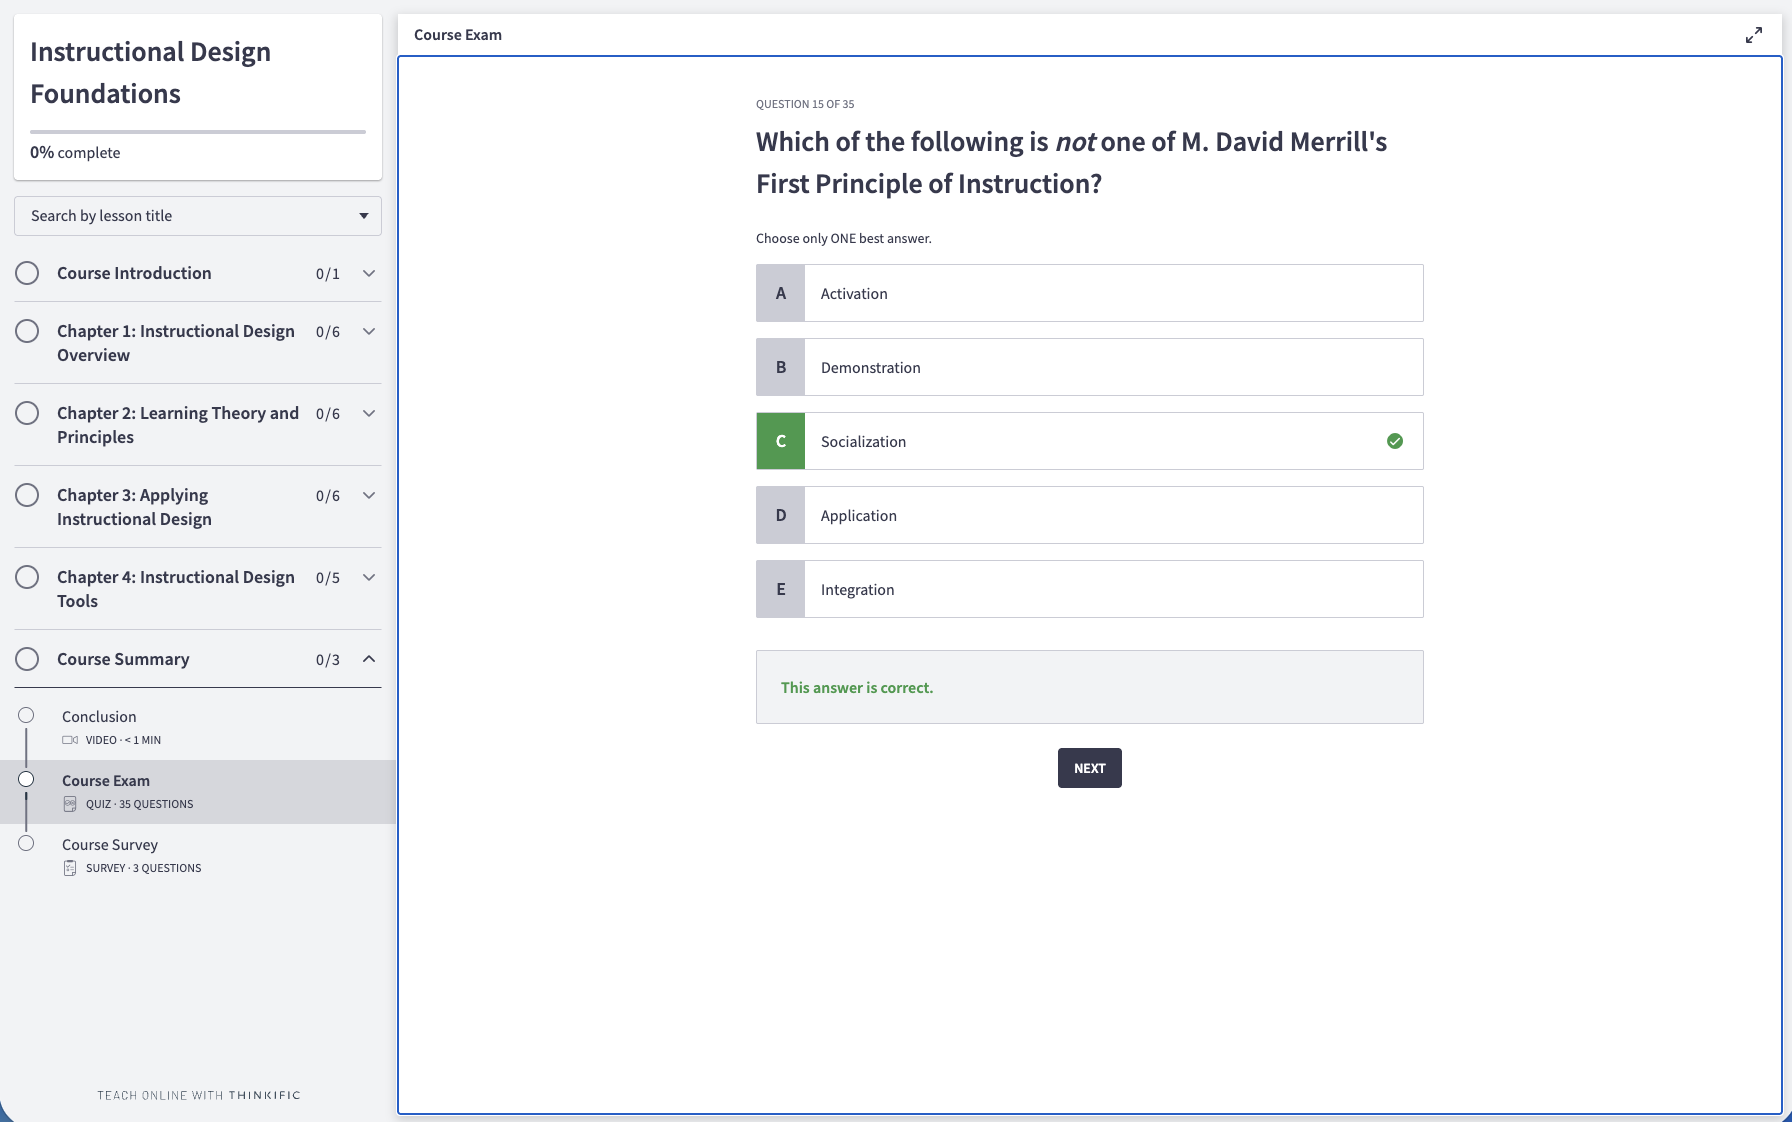
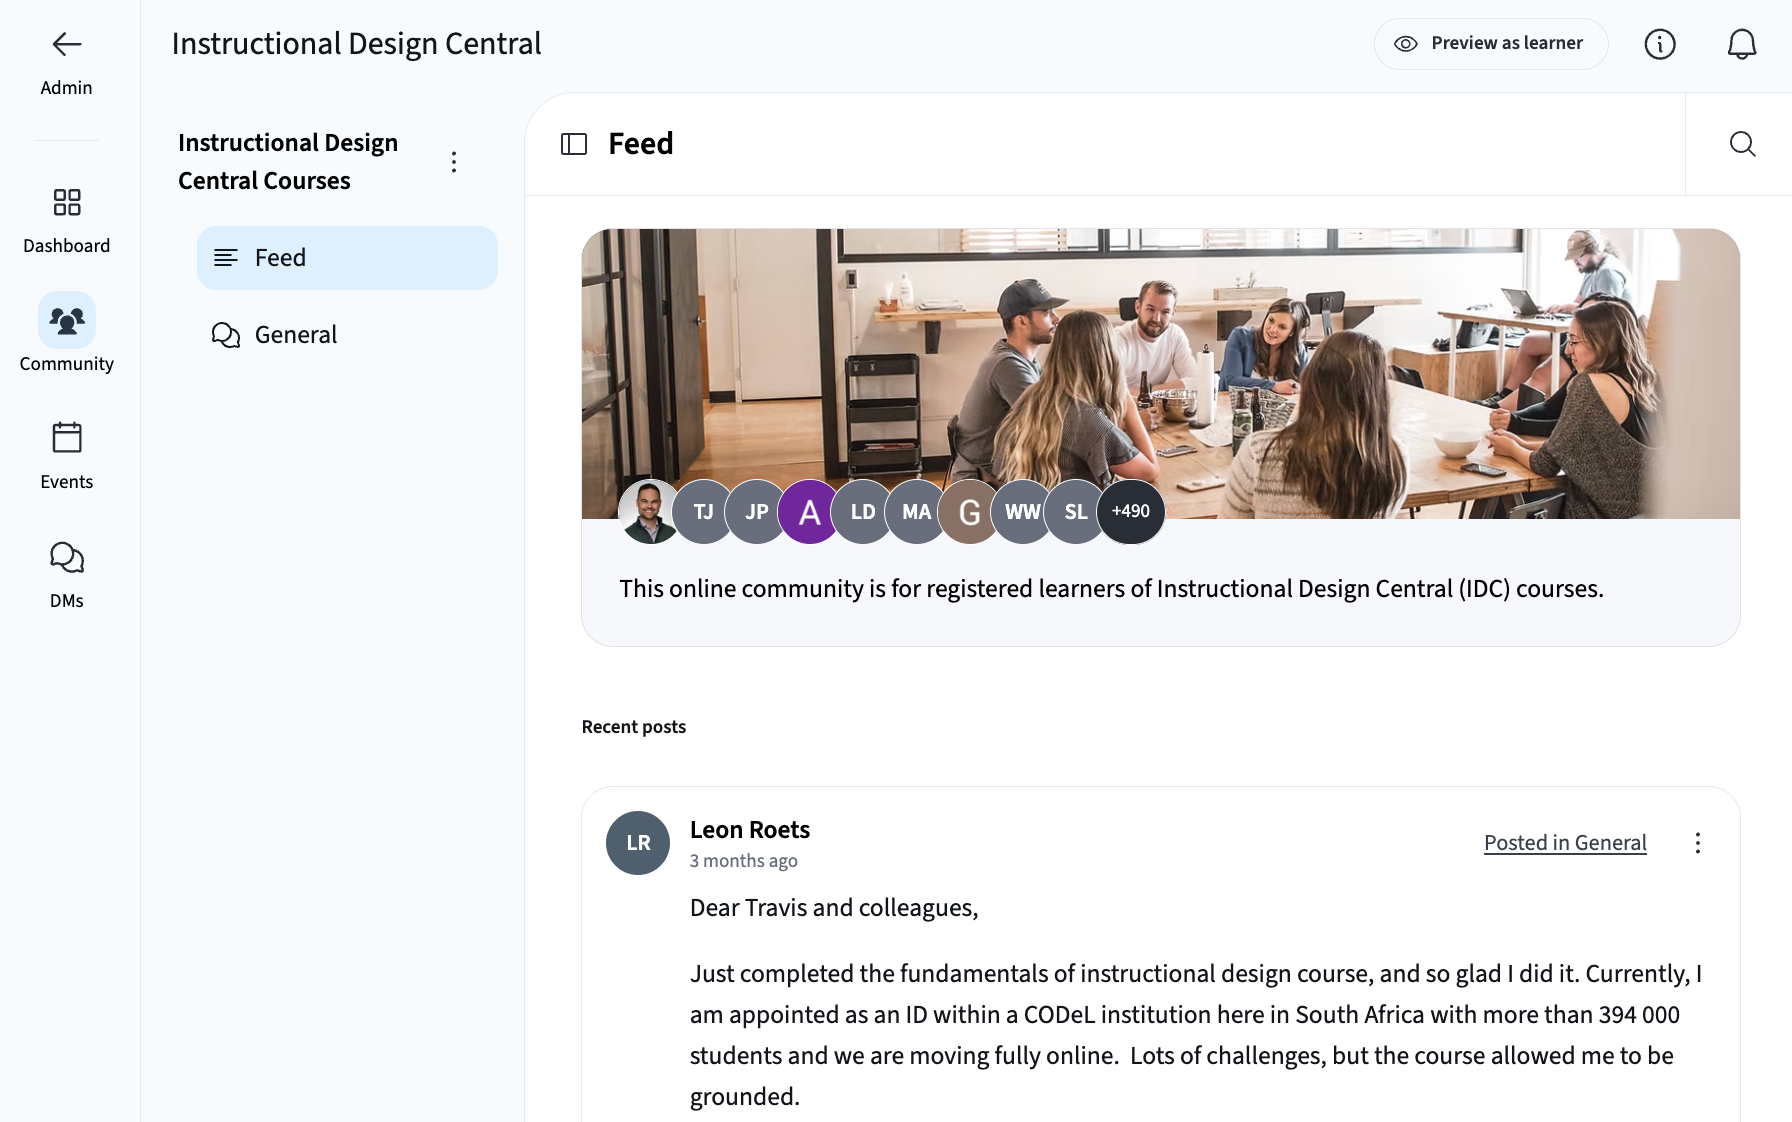
feat: update behaviorism-cards screenshot and add course-management slide to Foundations carousel
Replaces the behaviorism-cards image with the new community/discussion forum screenshot and updates its caption. Adds the course-management dashboard screenshot as a new carousel slide with a caption describing progress tracking and certificate downloads.

diff --git a/src/app/instructional-design-course/page.tsx b/src/app/instructional-design-course/page.tsx
@@ -73,8 +73,13 @@ const foundationsScreenshots: CourseScreenshot[] = [
   },
   {
     src: "/course-screenshots/foundations/behaviorism-cards.png",
-    alt: "Four cards showing real-world applications of behaviorism in instructional design",
-    caption: "A comprehensive final exam ties it all together — pass it and earn your certificate",
+    alt: "Online community discussion forum with learners engaging on course topics",
+    caption: "A built-in community keeps you connected — post questions, share ideas, and learn alongside other ID professionals",
+  },
+  {
+    src: "/course-screenshots/foundations/course-management.png",
+    alt: "Learner dashboard showing enrolled courses, progress tracking, and certificate downloads",
+    caption: "Your personal dashboard puts everything in one place — track progress across all your courses and download your certificate when you're done",
   },
   {
     src: "/course-screenshots/foundations/activity-slide.png",
